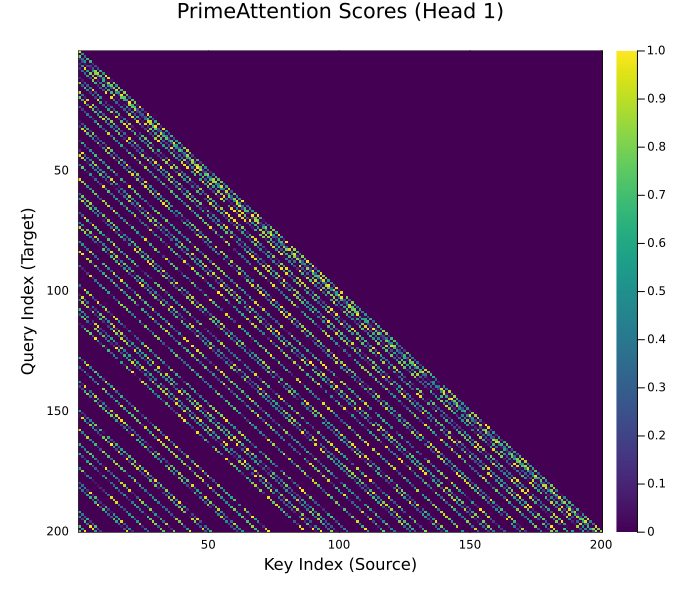
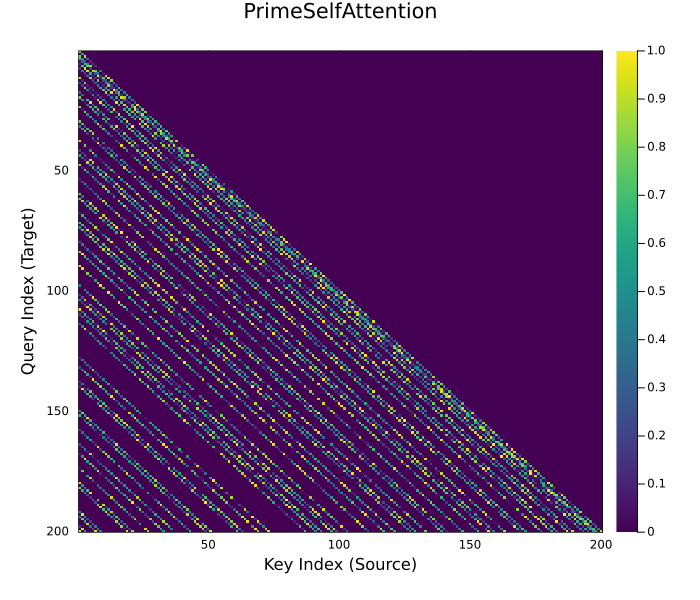
Version 0.2.0, added other number theoretical sparse attention methods

diff --git a/README.md b/README.md
@@ -1,25 +1,26 @@
 # PrimeAttention.jl
 
-A sparse, number-theoretic attention mechanism that can be used with [Flux.jl](https://fluxml.ai/Flux.jl/stable/).
-
 ![Prime Attention Heatmap](images/prime_attention_heatmap.png)
+
+A sparse, number-theoretic attention mechanism library for [Flux.jl](https://fluxml.ai/Flux.jl/stable/).
 
 ## Overview
 
-**PrimeAttention** is a sparse attention layer designed for sequence modeling in Flux.jl, works best with Julia 1.11 or later. It introduces a novel connectivity pattern based on the distribution of prime numbers to efficiently handle long contexts without the $O(N^2)$ computational complexity of standard Transformers.
+**PrimeAttention.jl** provides sparse attention layers that leverage number-theoretic sequences to define connectivity patterns. By using mathematical sequences instead of dense matrices or random sparsity, these layers achieve long-range dependencies with significantly lower computational complexity than standard $O(N^2)$ Transformers.
 
-Inspired by architectures like **[BigBird](https://arxiv.org/abs/2007.14062)**, this package implements a hybrid "PrimeBird" mechanism that combines three strategies:
+Inspired by architectures like [BigBird](https://arxiv.org/abs/2007.14062), this package implements a hybrid mechanism that combines three strategies:
 1.  **Global Tokens:** For sequence-wide context summaries.
 2.  **Sliding Window:** For local syntax and immediate context.
-3.  **Prime Intervals:** For sparse, non-repeating long-range dependencies.
+3. **Theoretic Intervals:** Sparse long-range connections based on Primes, Squares, or the Mian-Chowla sequence.
 
 ## Usage
 
-`PrimeSelfAttention` is designed to be a drop-in replacement for standard Flux layers. You can drop it directly into a Flux.Chain alongside standard layers like Dense, LayerNorm, or Dropout to build sparse Transformer blocks. Here is a very simple example.
+The package provides factory functions that return a `SparseIndexAttention` layer. Here is a simple example.
 
 ```julia
 using Flux
 using PrimeAttention
+
 
 # Define parameters
 embed_dim = 64
@@ -27,10 +28,10 @@ n_heads = 4
 global_tokens = 2
 window_size = 3
 
-# Initialize the layer
-attention_layer = PrimeSelfAttention(embed_dim, n_heads, global_tokens, window_size)
+# Initialize layer
+attention_layer = PrimeSelfAttention(embed_dim; heads=n_heads, global_tokens=global_tokens, window=window_size)
 
-# Create dummy input
+# Dummy input
 x = rand(Float32, embed_dim, 128, 8)
 
 # Forward pass
@@ -42,12 +43,23 @@ println("Output: ", size(y))
 # Inside a Flux Chain
 model = Chain(
     Dense(32 => 64),
-    PrimeSelfAttention(64, 4, 2, 3), 
+    PrimeSelfAttention(64; heads=4, global_tokens=2, window=3), 
     LayerNorm(64),
     Dense(64 => 10),
     softmax
 )
 ```
+
+## Layer
+
+While not linear, this offers a significant speedup over standard $O(N^2)$ attention.
+
+| Layer | Sequence | Density ($i$-th token) | Complexity | Best For |
+| :--- | :--- | :--- | :--- | :--- |
+| `PrimeSelfAttention` | Primes $\{2, 3, 5, \dots\}$ | $\approx 1/\ln i$ | $O(N^2 / \ln N)$ | Balanced long-range skip |
+| `SquareSelfAttention` | Squares $\{1, 4, 9, \dots\}$ | $\approx 1/\sqrt{i}$ | $O(N \sqrt{N})$ | Extremely sparse / Efficiency |
+| `MianChowlaSelfAttention` | Mian-Chowla $\{1, 2, 5, \dots\}$ | $< 1/\sqrt{i}$ | $O(N \sqrt{N})$ | Non-redundant "Sidon" patterns | 
+
 
 ## Number-Theoretic Background
 
@@ -60,49 +72,23 @@ By restricting attention connections to relative distances $p \in \{2, 3, 5, 7, 
 
 ## Architecture
 
-The `PrimeSelfAttention` layer implements a Causal mask defined by the following logic. For a query token $i$ and a key token $j$:
+For a query token at index $i$ and a key token at index $j$, the causal mask is defined as
 
-$$
-A_{i,j} = 
+$$A_{i,j} = 
 \begin{cases} 
-1 & \text{if } j \leq G & \text{(Global Attention)} \\
-1 & \text{if } i - j \leq W & \text{(Local Window)} \\
-1 & \text{if } (i - j) \in \mathbb{P} & \text{(Prime Distance)} \\
+1 & \text{if } j \leq G & \text{(Global)} \\
+1 & \text{if } i - j \leq W & \text{(Window)} \\
+1 & \text{if } (i - j) \in \mathcal{S} & \text{(Sequence } \mathcal{S}\text{)} \\
 0 & \text{otherwise}
-\end{cases}
-$$
+\end{cases}$$
 
 Where $G$ is the number of global tokens and $W$ is the window size.
 
-## Theoretical Efficiency
-
-The computational cost scales **$\approx O(N^2 / \ln N)$**.
-
-While not linear, this offers a significant speedup over standard $O(N^2)$ attention because the density of prime numbers decreases logarithmically as the sequence length grows.
-
-| Sequence Length ($N$) | Standard Ops ($N^2/2$) | PrimeBird Ops | Sparsity | Speedup Factor |
-| :--- | :--- | :--- | :--- | :--- |
-| 256        | 32896           | 8653            | 3.8      x | 73.7     % |
-| 1024       | 524800          | 99685           | 5.3      x | 81.0     % |
-| 4096       | 8390656         | 1255303         | 6.7      x | 85.0     % | 
-| 16384      | 134225920       | 16606689        | 8.1      x | 87.6     % |
-| 65536      | 2147516416      | 226697479       | 9.5      x | 89.4     % |
-
-*Note: "Standard Ops" refers to Causal Attention* $N(N+1)/2$. *"PrimeBird Ops" calculated with global=2, window=3.*
-
-### Complexity Derivation
-The number of connections for a token at index $i$ is approximately the number of primes less than $i$, denoted as $\pi(i)$. By the Prime Number Theorem, $\pi(i) \approx i / \ln i$.
-Summing this over the sequence length $N$,
-
-$$\sum_{i=1}^{N} \pi(i) \approx \int_{2}^{N} \frac{x}{\ln x} dx \approx O\left(\frac{N^2}{\ln N}\right)$$
-
-This makes PrimeAttention faster than standard attention ($N^2$), but heavier than fixed-window linear attention ($N$).
 
 ## Implementation Notes
 
-PrimeAttention.jl implements a custom sparse kernel (`src/kernel.jl`) that iterates exclusively over valid indices, ensuring that memory usage remain proportional to the number of active connections.
+Refactored Kernel: All layers share a universal `sparse_index_kernel` that iterates exclusively over valid indices.
 
-To ensure the custom kernel remains compatible with Flux's automatic differentiation engine (`Zygote`), this package uses `Zygote.Buffer` to handle array mutations during the forward pass. 
+Differentiation: Fully compatible with `Zygote.jl` via `Zygote.Buffer` to handle array mutations during the forward pass.
 
-* Advantage: Pure Julia implementation, differentiable, mathematical background.
-* Trade-off: There is overhead during the backward pass compared to optimized CUDA kernels. **This implementation only serves as a reference for research and prototyping**. Production-scale training on large datasets would benefit from a custom CUDA adjoint.
+Performance: While complexity is reduced mathematically, speedup in the current version is limited by CPU-based iteration. This implementation serves as a research reference mainly.
